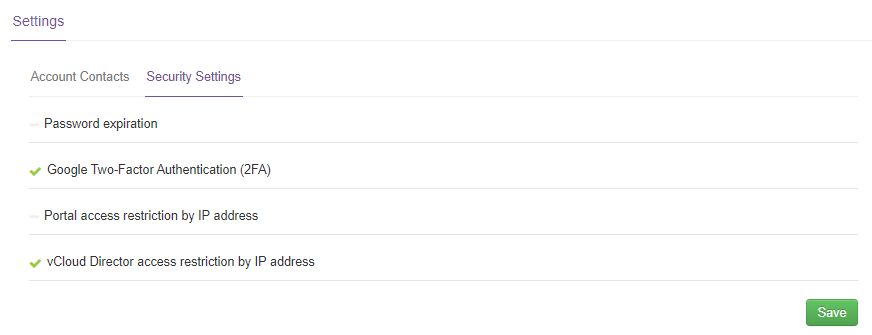
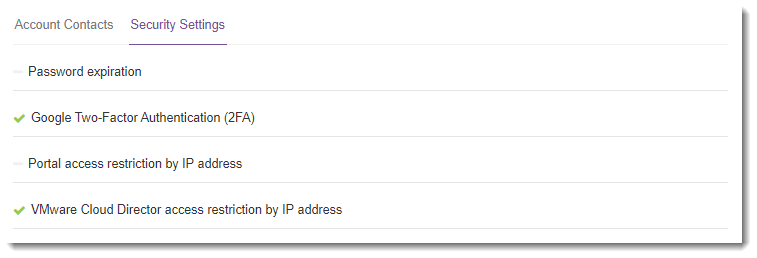
Review security settings article
Update screenshots

diff --git a/articles/portal/ptl-ref-security-settings.md b/articles/portal/ptl-ref-security-settings.md
@@ -4,7 +4,7 @@ description: Provides information about the various security settings available 
 services: portal
 author: shighmoor
 reviewer: shighmoor
-lastreviewed: 09/04/2021
+lastreviewed: 19/04/2022
 
 toc_rootlink: Reference
 toc_sub1: 
@@ -29,7 +29,7 @@ The UKCloud Portal provides various settings to enable you to provide additional
 
 - **Password expiration** - Set passwords to expire after a specified number of days. This ensures that users change their passwords frequently.
 
-- **Google two-factor authentication (2FA)** - Add an extra level of authentication whereby users provide a security code from an authenticator app (such as Google Authenticator or Authy) as well as their password to confirm their identity.
+- **Google Two-Factor Authentication (2FA)** - Add an extra level of authentication whereby users provide a security code from an authenticator app (such as Google Authenticator or Authy) as well as their password to confirm their identity.
 
 - **Portal access restriction by IP address** - Restrict access so that users can only log in to the Portal from specific IP addresses.
 
